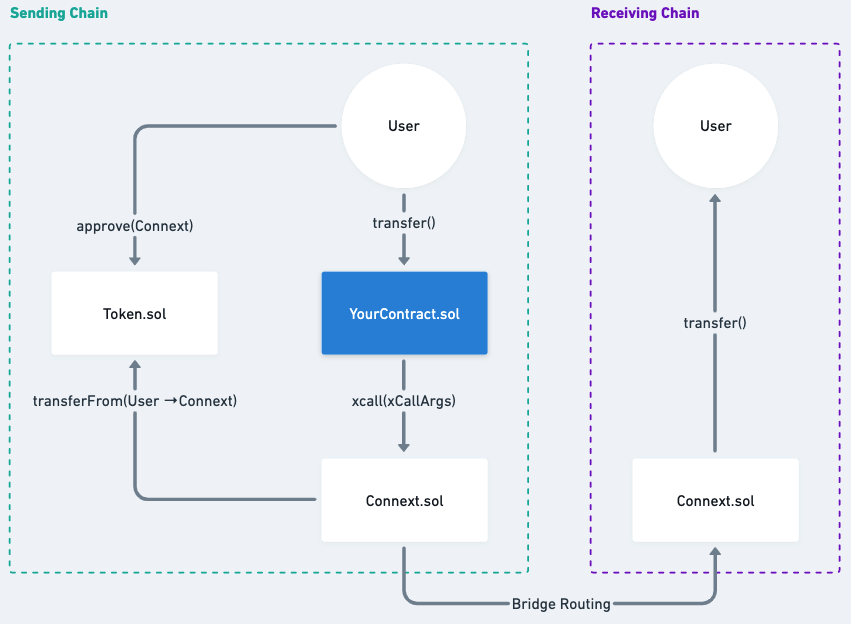
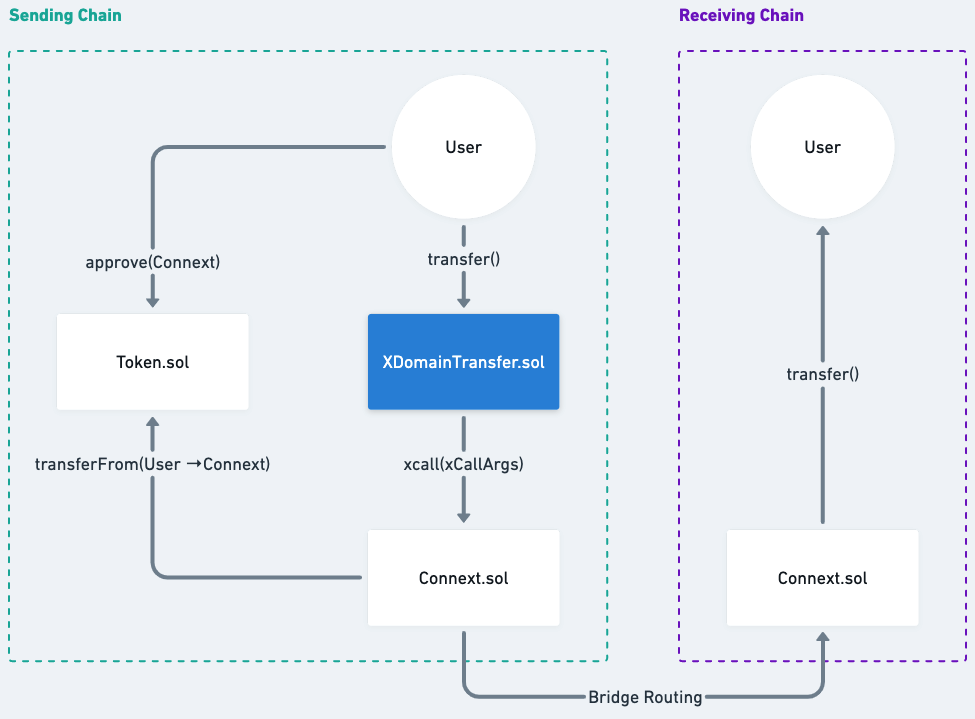
update docs

diff --git a/README.md b/README.md
@@ -3,7 +3,7 @@
 Starter kit for cross-domain apps (xApps).
 # Overview
 
-With Connext's upgraded protocol, there are generally three types of bridging transactions.
+With Connext's upgraded protocol, there are generally three types of bridging transactions that can be executed fully through smart contract integration.
 - Simple transfers
 - Permissionless calls
 - Permissioned calls
@@ -12,28 +12,35 @@ This starter repo contains contracts that demonstrate how to use each type of tr
 
 ## XDomainTransfer
 
-Simple transfer from Sending Chain to Receiving Chain. Does not use calldata.
+Simple transfer from Sending Chain to Receiving Chain. Does not use calldata. 
+
+Example use cases:
+- Send funds across chains
 
 Contracts:
 - XDomainTransfer.sol
 
 ![XDomainTransfer](documentation/assets/XDomainTransfer.png)
-## XDomainDeposit
 
-Deposit funds from Sending Chain into an Aave V3 Pool on the Receiving Chain. Uses permissionless call on the receiving side.
+## XDomainPermissionless
 
-Contracts:
-- XDomainDeposit.sol
+Transfer funds and/or call a target contract with arbitrary calldata on the Receiving Chain. Assuming the receiving side is a permissionless call, this flow is essentially the same as a simple transfer except encoded calldata is included in the `xcall`.
 
-![XDomainDeposit](documentation/assets/XDomainDeposit.png)
-## XDomainGovern
-
-![TODO]()
-
-Permissioned call on the receiving side.
+Example use cases:
+- Deposit funds from Sending Chain into a liquidity pool on the Receiving Chain
 
 Contracts:
-- XDomainGovern.sol
+- XDomainPermissionless.sol
+
+![XDomainPermissionless](documentation/assets/XDomainPermissionless.png)
+
+## XDomainPermissioned
+
+Transfer funds and/or call a target contract with arbitrary calldata on the Receiving Chain. With permissioned calls, middleware contracts may be needed to run `msg.sender` checks. 
+
+Contracts:
+- [TODO]
+
 # Development
 
 ## Getting Started
